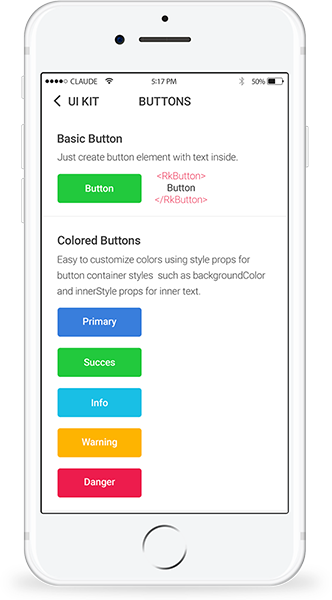
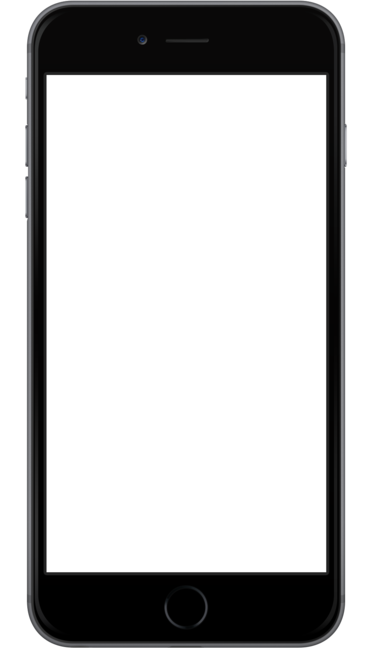
feat(docs): change phone pic

diff --git a/docs/app/docs/page/page.component.scss b/docs/app/docs/page/page.component.scss
@@ -1,13 +1,15 @@
+@import '../../styles/variables';
 $title-font-size: 32px;
+//;
 $code-background: rgb(245, 246, 252);
 $text-color: rgba(0, 0, 0, 0.87);
 $text-color-active: rgba(255, 40, 36, 0.87);
 
-:host {
+@include nga-install-component {
   /deep/ nga-card {
 
     nga-card-header {
-      font-size: $title-font-size;
+      font-size: nga-theme(font-size-lg);
       font-weight: bold;
       border: none;
       text-transform: none;
@@ -17,7 +19,7 @@ $text-color-active: rgba(255, 40, 36, 0.87);
     nga-card-body {
 
       .block-title {
-        font-size: $title-font-size;
+        font-size: nga-theme(font-size-lg);
         font-weight: bold;
         margin-bottom: 2rem;
       }
@@ -49,10 +51,10 @@ $text-color-active: rgba(255, 40, 36, 0.87);
 
       code {
         font-size: 100%;
-        color: $text-color-active;
+        color: nga-theme(color-fg-active);
       }
       pre {
-        background: $code-background;
+        background: nga-theme(code-snippets-bg);
         padding: 0.75rem 1rem;
         code {
           color: $text-color;
@@ -61,7 +63,7 @@ $text-color-active: rgba(255, 40, 36, 0.87);
       react-code-highlighter {
         display: none;
         .code-title {
-          background: $code-background;
+          background: nga-theme(code-snippets-bg);
           padding: 0.75rem 1rem;
           border-radius: 3px;
           border-bottom: 1px solid rgb(224, 225, 235);

diff --git a/docs/app/styles/variables.scss b/docs/app/styles/variables.scss
@@ -6,6 +6,18 @@
 // which themes you what to enable (empty to enable all - not recommended)
 $nga-enabled-themes: (default);
 
+@mixin nga-install-root-component() {
+
+	$themes-to-install: get-enabled-themes();
+
+	@each $theme-name, $theme in $themes-to-install {
+		:host .nga-theme-#{$theme-name} {
+			$theme: $theme !global;
+			@content;
+		}
+	}
+}
+
 $nga-themes: nga-register-theme((
   font-main: unquote('Roboto, sans-serif'),
   kitten-font: unquote('Righteous, cursive'),
@@ -31,6 +43,7 @@ $nga-themes: nga-register-theme((
   color-fg-inverse: white,
   docs-content-margin-top: 1.5rem,
   right-sidebar-width: 17.5rem,
+	code-snippets-bg: rgb(245, 246, 252),
 
   separator: color-bg,
   header-padding: 0,

diff --git a/docs/app/docs/page/blocks/react-demo-phone.component.scss b/docs/app/docs/page/blocks/react-demo-phone.component.scss
@@ -13,20 +13,20 @@ $color-primary: #ff241f;
       background-size: contain;
       img {
         position: absolute;
-        top: 62px;
+        top: 57px;
         left: 35px;
-        width: 203px;
-        height: 365px;
+        width: 208px;
+        height: 371px;
       }
 
       &.android {
         background: url(../../../../assets/androidPhoneImage.png) no-repeat;
         background-size: contain;
         img {
-          top: 57px;
+          top: 55px;
           left: 30px;
           width: 218px;
-          height: 388px;
+          height: 385px;
         }
       }
     }

diff --git a/docs/app/styles/styles.scss b/docs/app/styles/styles.scss
@@ -3,7 +3,7 @@
 
 // framework component themes (styles tied to theme variables)
 @import '~@akveo/nga-theme/styles/globals';
-@import '~@akveo/nga-auth/styles/all';
+//@import '~@akveo/nga-auth/styles/all';
 
 // custom global styles
 @import 'global';
@@ -11,7 +11,7 @@
 // install the framework and custom global styles
 @include nga-install() {
   @include nga-theme-global();
-  @include nga-auth-global();
+  //@include nga-auth-global();
 
   @include ngd-global-theme();
 };
